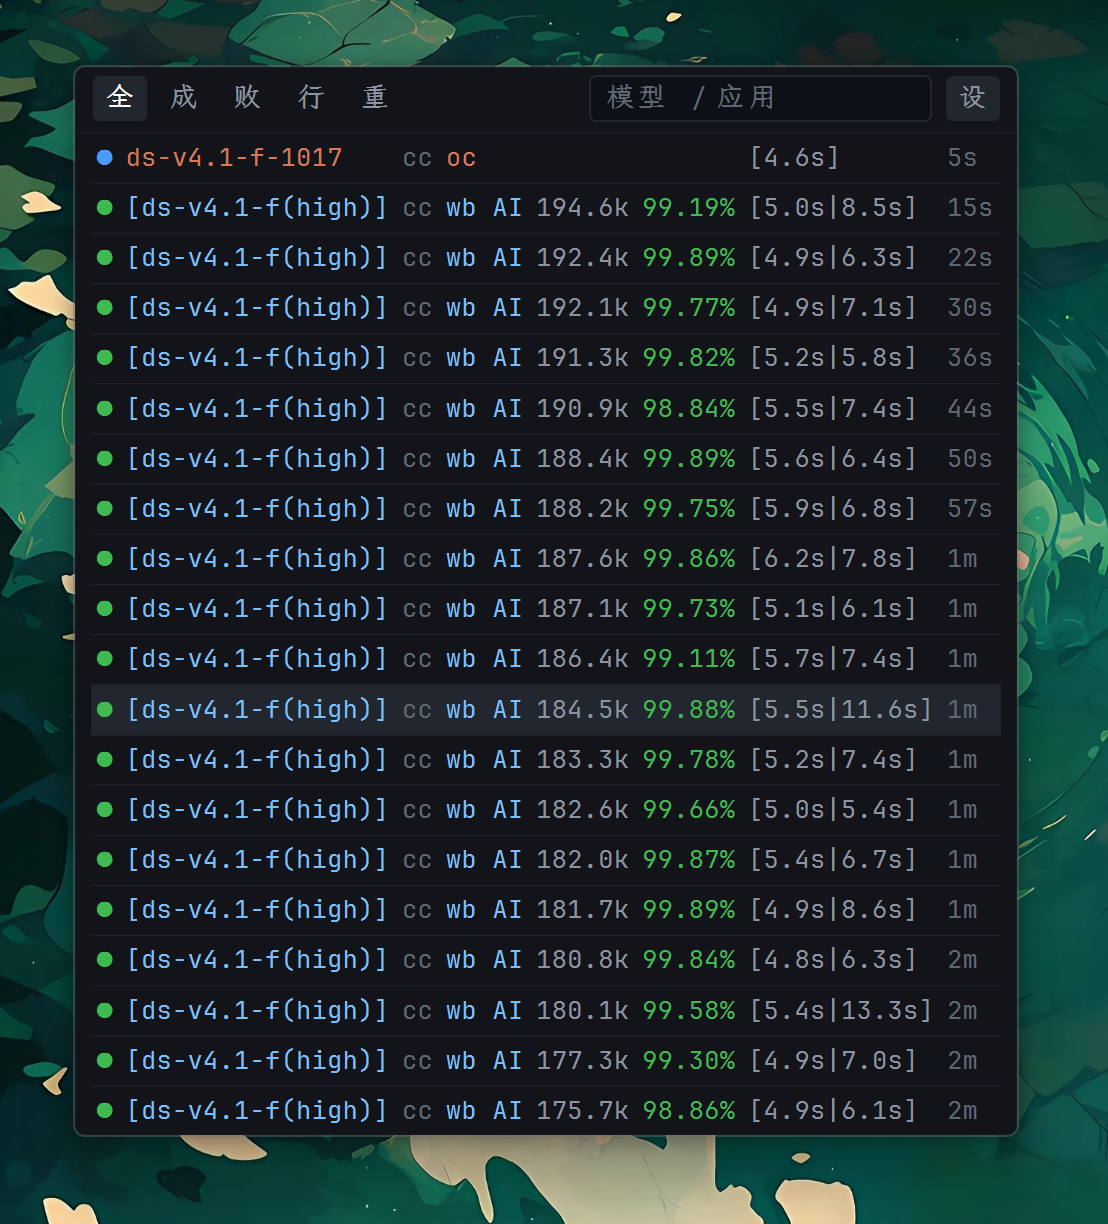
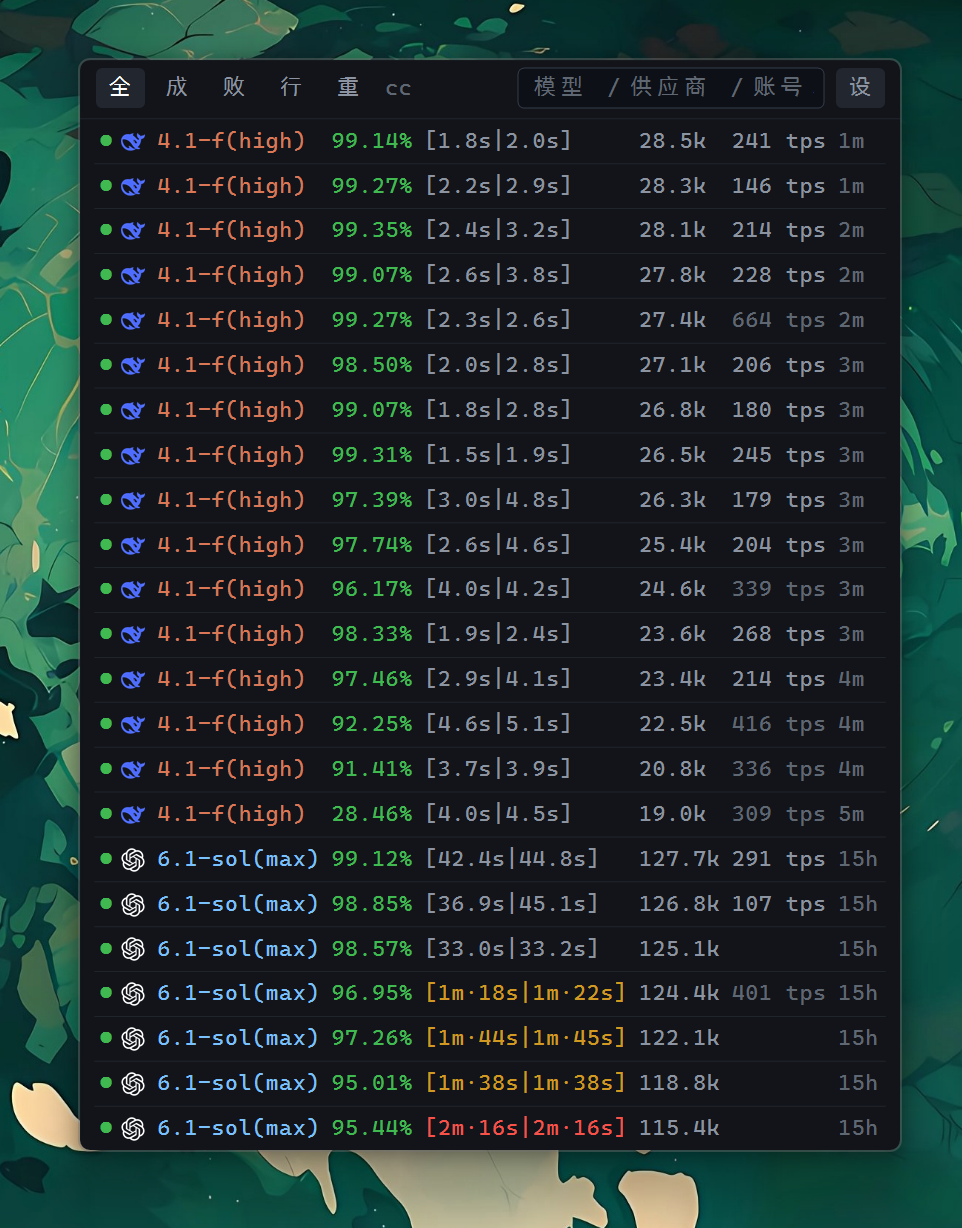
chore: 更新截图、精简代理说明并修正搜索框占位符

Changed region(s): [[0.0, 0.0, 1.0, 1.0], [0.9979, 0.9003, 1.0, 0.9624], [0.9667, 0.5899, 1.0, 0.6209]]

diff --git a/src/ui/panel.rs b/src/ui/panel.rs
@@ -339,7 +339,7 @@ fn draw_header(p: &Painter, fonts: &theme::Fonts, m: Metrics, v: &ListView) {
     let inner_w = (box_.w - pad * 2.0).max(0.0);
     let placeholder = v.query_draft.is_empty() && !v.query_editing;
     let visible = if placeholder {
-        "模型 / 应用"
+        "模型 / 供应商 / 账号…"
     } else {
         fitting_tail(p, &fonts.small, v.query_draft, inner_w)
     };

diff --git a/AGENTS.md b/AGENTS.md
@@ -1,3 +1,1 @@
-# 编码代理说明
-
-先阅读 [CLAUDE.md](CLAUDE.md)：平台限制、构建与测试命令、线程/状态架构和跨文件陷阱都在那里。
+阅读 [CLAUDE.md](CLAUDE.md)
